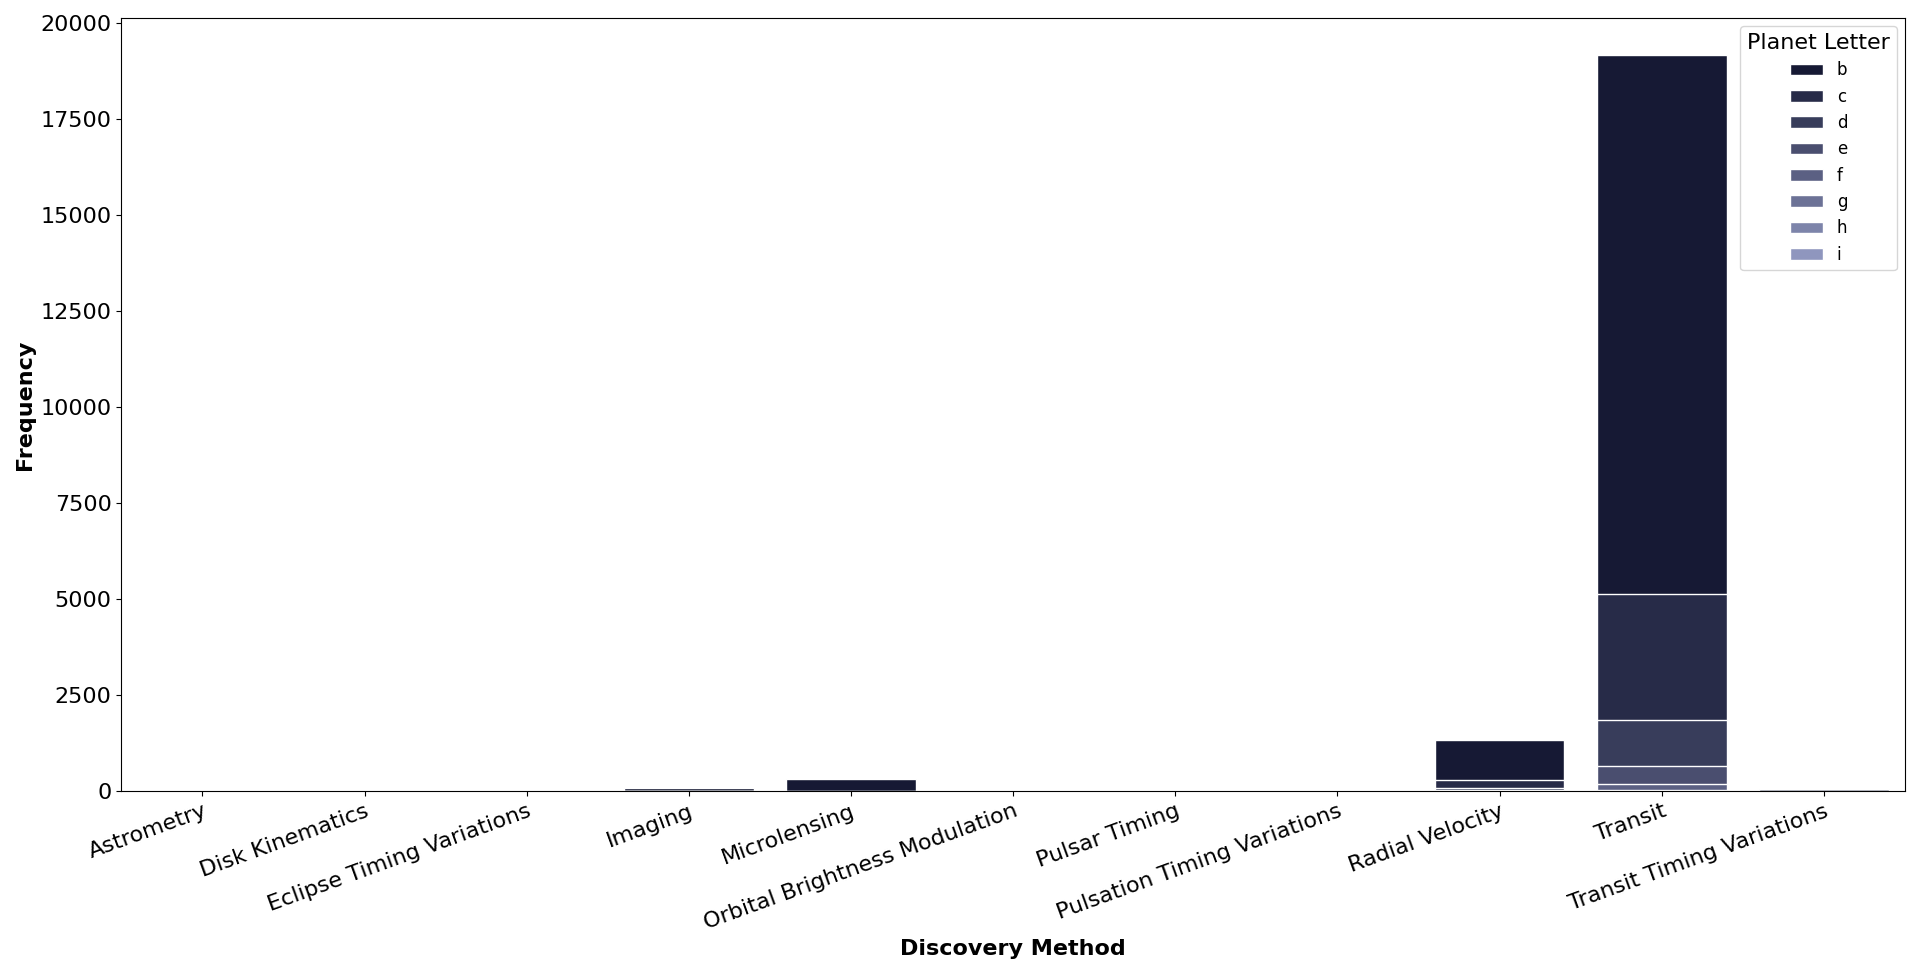
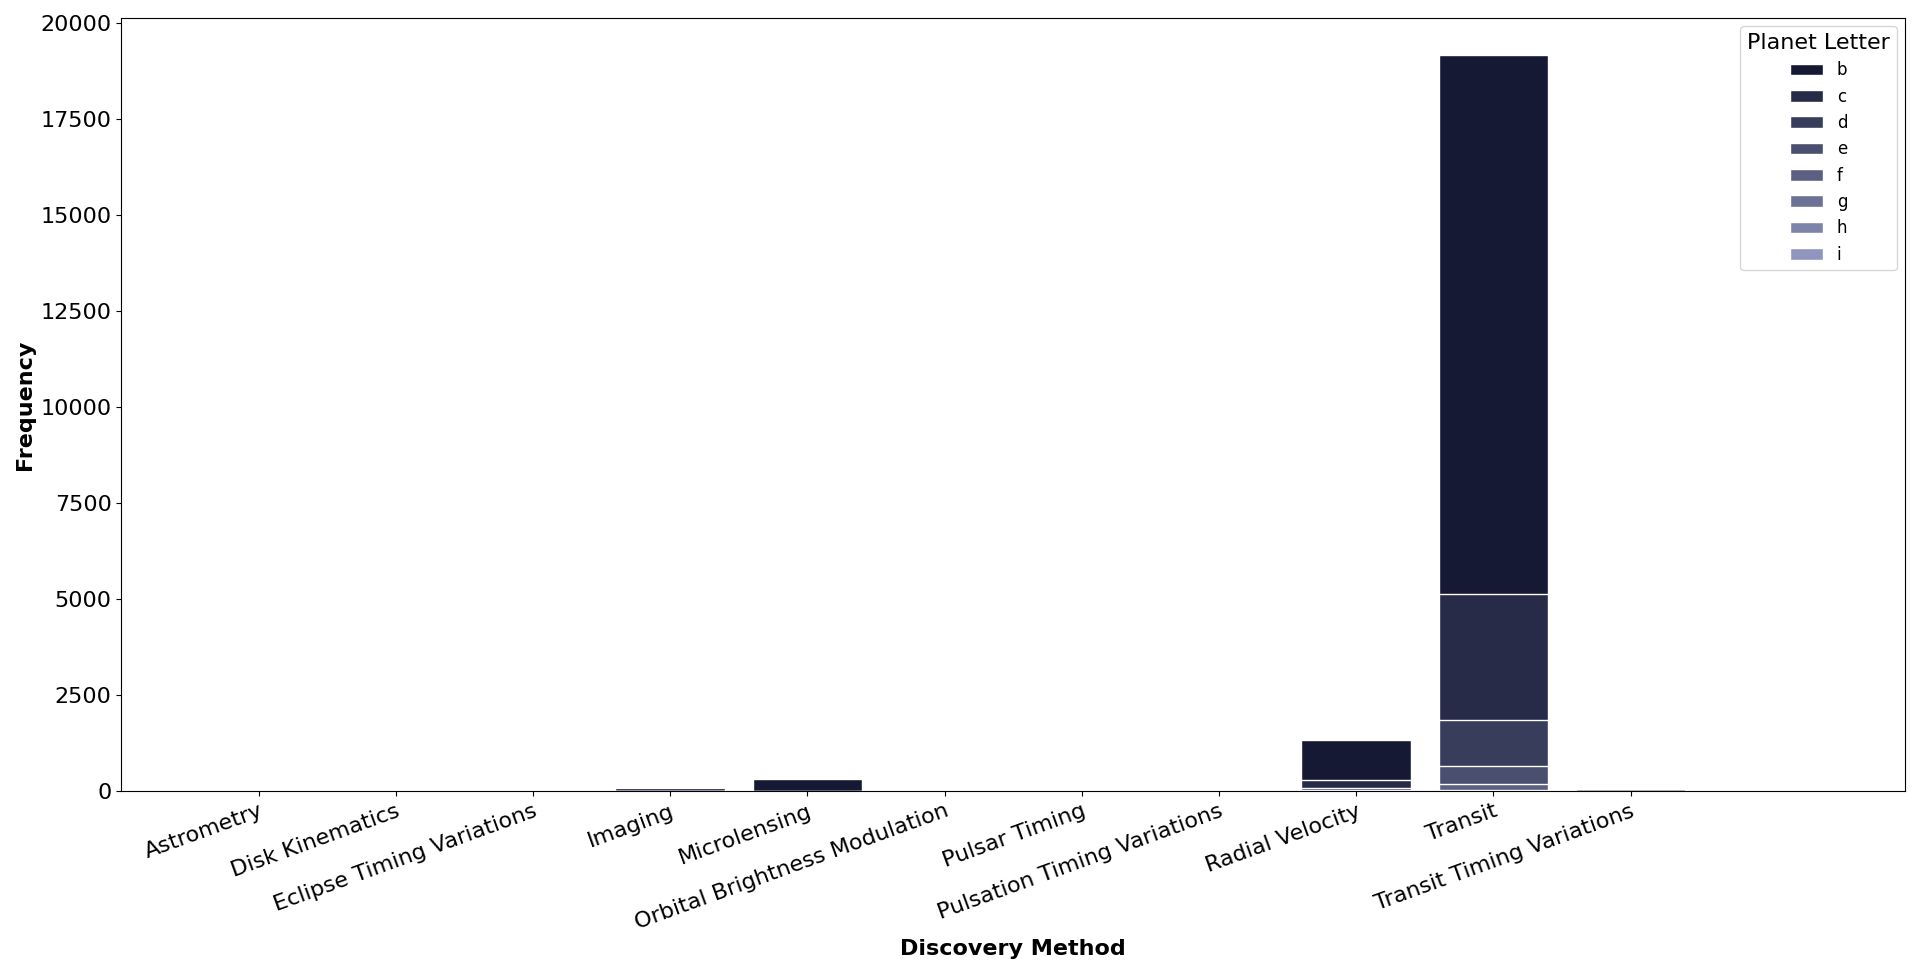
bar stacked seaborn ok

diff --git a/Plot_types/Barplot_Stacked/Barplot_Stacked_Python_seaborn.py b/Plot_types/Barplot_Stacked/Barplot_Stacked_Python_seaborn.py
@@ -28,7 +28,7 @@ variables = [cat_var1, cat_var2]
 # Deal with NAN:
 df[variables] = df[variables].fillna("NA")
 
-# Plot:
+# Plot parameters:
 df_plot = df
 df_plot = df_plot.sort_values(cat_var2)
 n_groups = len(set(df_plot[cat_var1].values.tolist()))
@@ -36,19 +36,68 @@ cmap = LinearSegmentedColormap.from_list("my_palette", ["#111539", "#97A1D9"])
 my_palette = [cmap(i/n_groups) for i in np.array(range(n_groups))]
 levels_var1 = pd.crosstab(df_plot[cat_var1], df_plot[cat_var2]).sort_values(by = cat_var1).index.tolist()
 levels_var2 = list(set(df_plot[cat_var2]))
+
+# Absolute frequency plot:
 fig = plt.figure(
     figsize = (20, 10),
     tight_layout = True
 )
-# ax = sns.countplot(
-#     data = df_plot, 
-#     x = cat_var2, 
-#     hue = cat_var1,
-#     hue_order = pd.crosstab(df_plot[cat_var1], df_plot[cat_var2]).sort_values(by = cat_var1).index,
-#     dodge = False,
-#     ec = "white",
-#     palette = my_palette
-# )
+ax = sns.countplot(
+    data = df_plot, 
+    x = cat_var2, 
+    hue = cat_var1,
+    hue_order = levels_var1,
+    dodge = False,
+    ec = "white",
+    palette = my_palette
+)
+legend = ax.get_legend()
+handles = legend.legendHandles
+legend.remove()
+_ = ax.legend(
+    handles,
+    levels_var1,
+    fontsize = "large",
+    title = cat_var_name1,
+    title_fontsize = 16,
+    loc = "upper right"
+)
+_ = ax.set_xlabel(
+    cat_var_name2,
+    fontsize = 16,
+    fontweight = "bold"
+)
+_ = ax.set_ylabel(
+    "Frequency",
+    fontsize = 16,
+    fontweight = "bold"
+)
+_ = ax.tick_params(
+    axis = "x", 
+    which = "major", 
+    labelsize = 16,
+    rotation = 20
+)
+_ = ax.tick_params(
+    axis = "y", 
+    which = "major", 
+    labelsize = 16
+)
+_ = plt.setp(
+    ax.get_xticklabels(),
+    ha = "right", 
+    rotation_mode = "anchor"
+)
+_ = plt.xlim(
+    left = -1,
+    right = len(levels_var2) + 1
+)
+
+# Relative frequency:
+fig = plt.figure(
+    figsize = (20, 10),
+    tight_layout = True
+)
 ax = sns.histplot(
     data = df_plot,
     x = cat_var2,
@@ -80,8 +129,8 @@ _ = ax.set_xlabel(
     fontweight = "bold"
 )
 _ = ax.set_ylabel(
-    # "Frequency",
-    "Proportion (%)",
+    "Frequency",
+    # "Proportion (%)",
     fontsize = 16,
     fontweight = "bold"
 )

diff --git a/Plot_types/Barplot_Grouped/Barplot_Grouped_Python_seaborn.py b/Plot_types/Barplot_Grouped/Barplot_Grouped_Python_seaborn.py
@@ -38,6 +38,7 @@ df_plot = df_plot.sort_values(cat_var2)
 n_groups = len(set(df_plot[cat_var1].values.tolist()))
 cmap = LinearSegmentedColormap.from_list("my_palette", ["#111539", "#97A1D9"])
 my_palette = [cmap(i/n_groups) for i in np.array(range(n_groups))]
+
 fig = plt.figure(
     figsize = (20, 10),
     tight_layout = True
